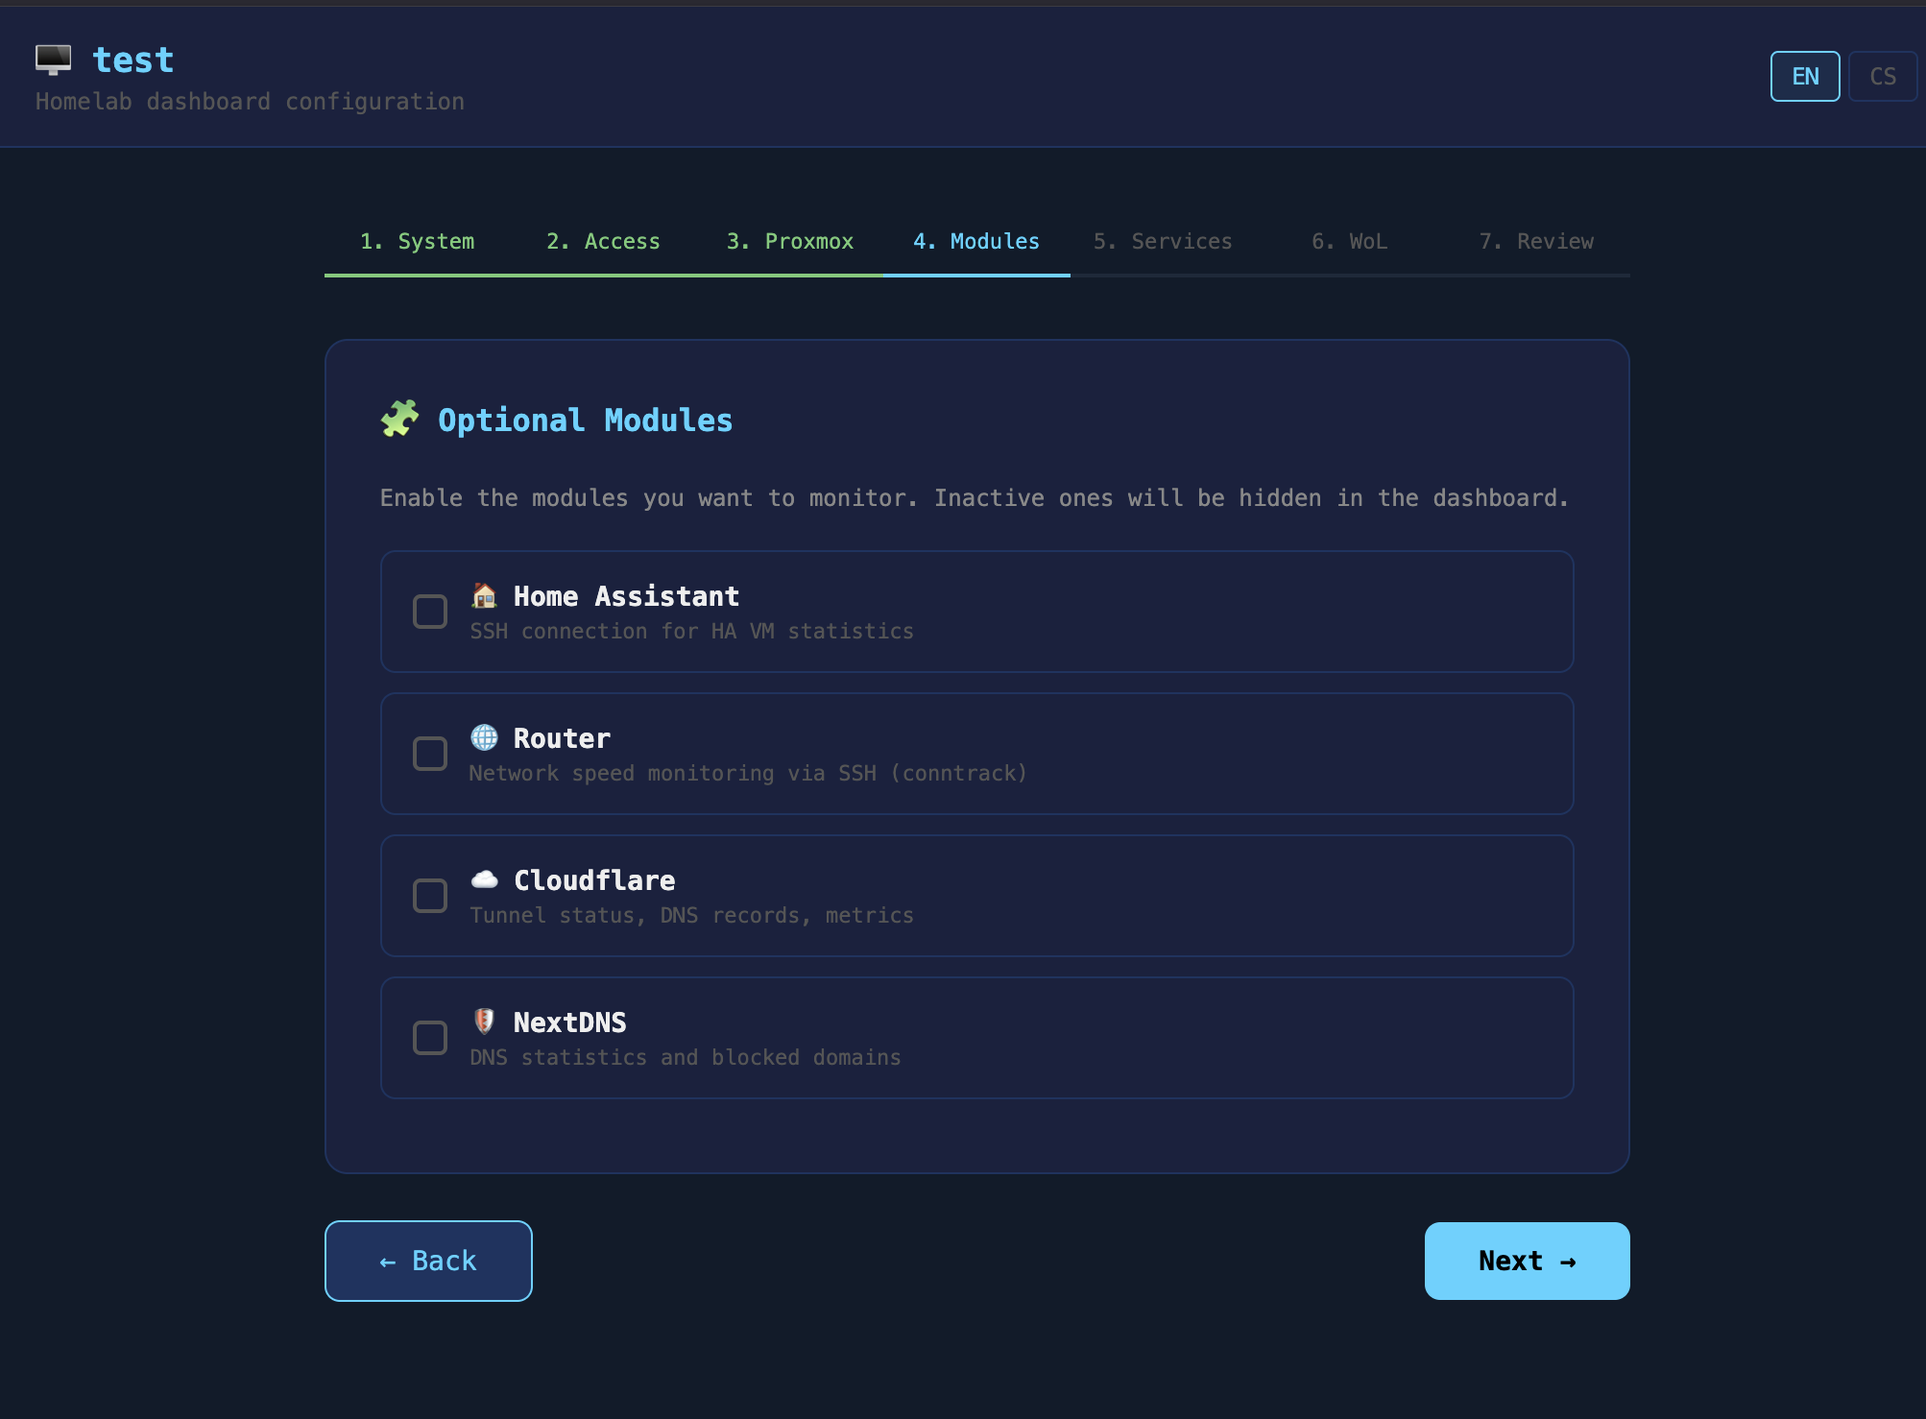
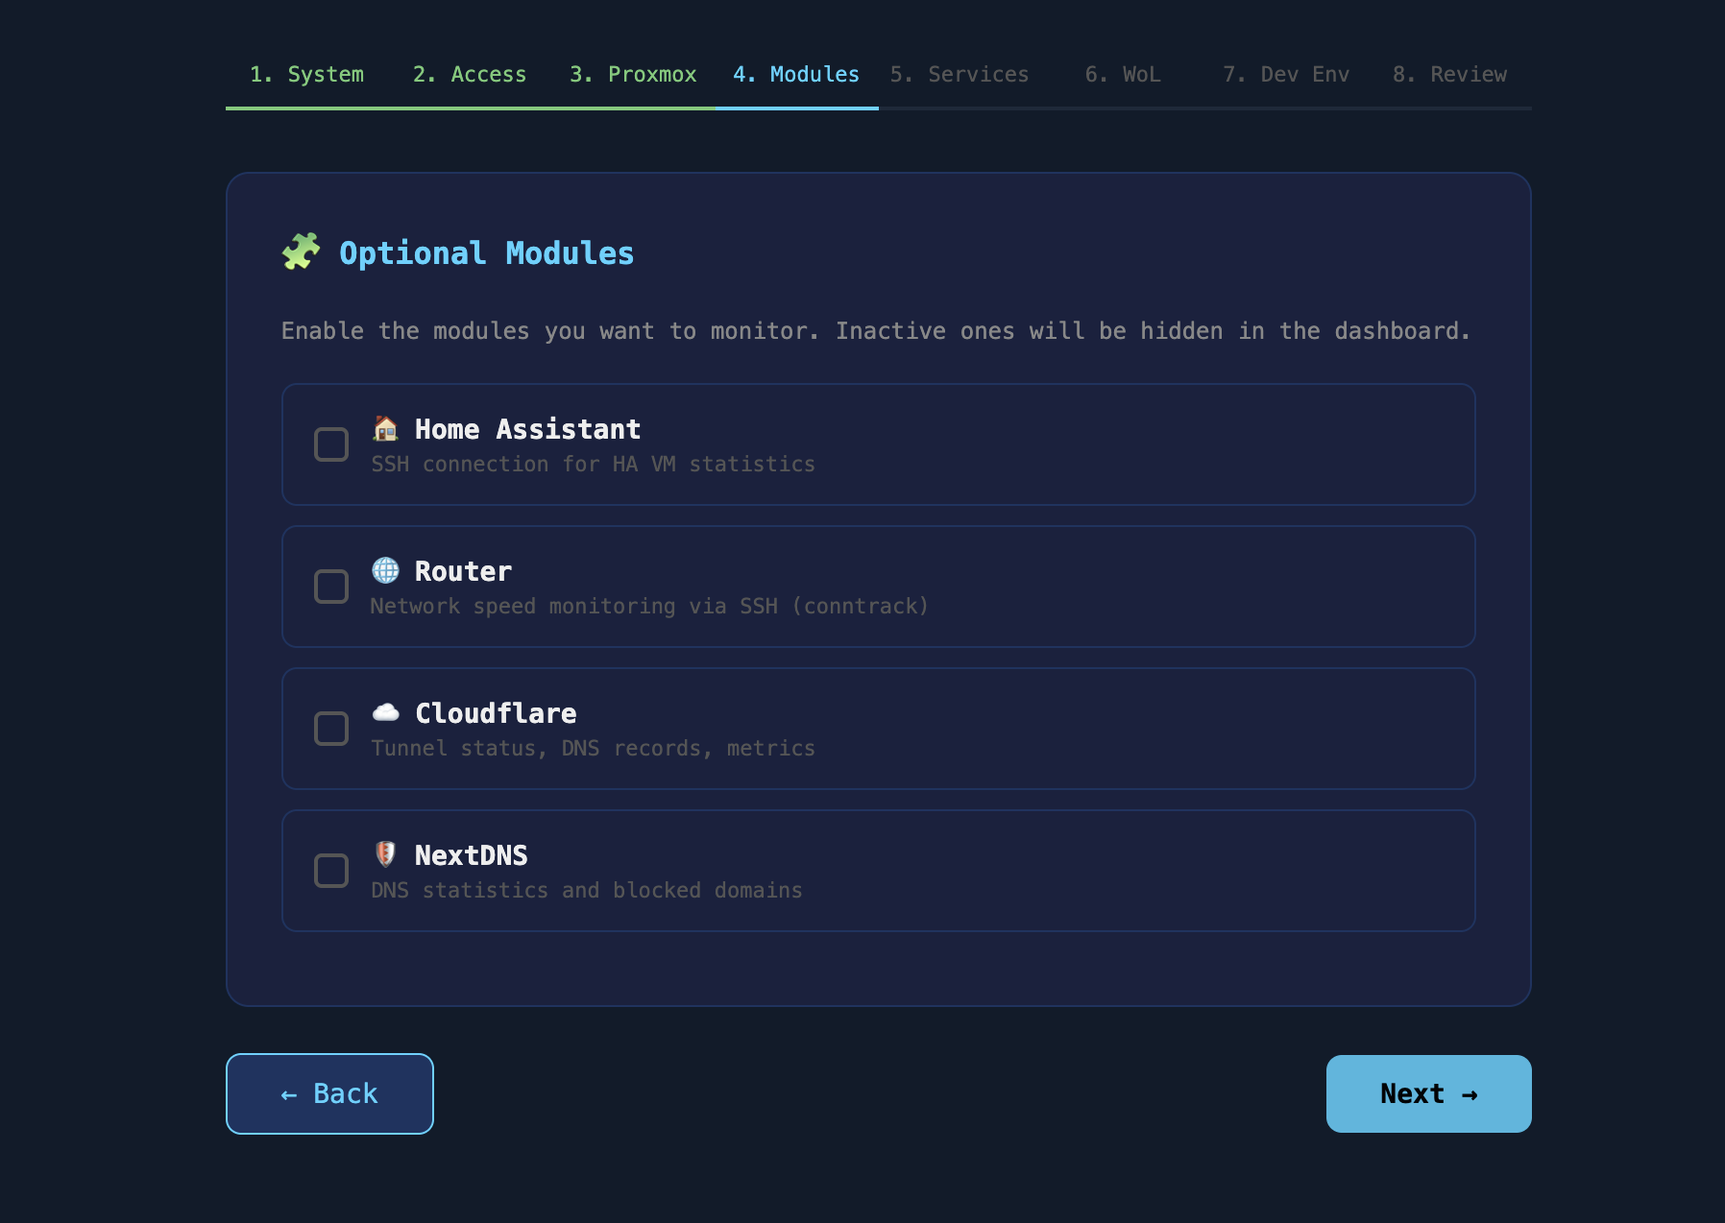
docs: update README with 9 screenshots, dashboard section, wizard step 8
- Replace all wizard screenshots with current versions (steps 1-6)
- Add step 7 Dev Environment screenshot (wizard-step7-devenv.png)
- Add two dashboard screenshots: Resources/Temperatures + Tools/LXC
- Split screenshots section into Wizard and Dashboard subsections
- Update wizard table: 7 steps → 8 steps (add Dev Environment)
- Add Dev Environment step description (Node.js ecosystem + independent tools)
- Update file structure: add dashboard-en.json and dashboard-cs.json
- Remove "Full EN translation" from planned features (now done)
- Add fourth iteration notes to development log
- Update both EN (README.md) and CS (README.cs.md)

diff --git a/README.md b/README.md
@@ -36,17 +36,18 @@ The app automatically detects whether `config.json` exists:
 
 ## Web Installer Wizard
 
-A 7-step setup wizard — no SSH or config file editing needed:
+An 8-step setup wizard — no SSH or config file editing needed:
 
 | Step | What you configure |
 |------|--------------------|
 | 1. System check | Python, sshpass, paramiko availability |
-| 2. Credentials | Dashboard name, username + password (SHA-256 hash, with generator) |
+| 2. Credentials | Dashboard name, port, username + password (SHA-256 hash, with generator) |
 | 3. Proxmox | IP, node name, SSH auth (password **or** generated keypair) |
 | 4. Modules | Home Assistant, Router, Cloudflare, NextDNS (each optional) |
 | 5. Services | URLs to monitor for availability |
 | 6. WoL devices | Name + MAC + IP for Wake-on-LAN |
-| 7. Review + Install | Shows full config (passwords hidden), saves `config.json` |
+| 7. Dev Environment | Optional developer tools to install on the server |
+| 8. Review + Install | Shows full config (passwords hidden), saves `config.json` |
 
 ### Wizard UX features
 
@@ -58,7 +59,7 @@ A 7-step setup wizard — no SSH or config file editing needed:
 - **Generic placeholders** — IP fields show `e.g. 192.168.1.x` instead of specific addresses
 - **Eye icon in review** — reveal password one last time before installing
 
-### SSH key generation (step 3 & 4)
+### SSH key generation (steps 3 & 4)
 
 For Proxmox and Router modules you can choose between password auth or SSH key. If you choose key, the wizard generates an ed25519 keypair, shows the public key with a **Copy** button, and tells you exactly where to paste it (`~/.ssh/authorized_keys`).
 
@@ -107,14 +108,14 @@ Fill in a form, click **"Create LXC and Install"** — the tool handles everythi
 ╚══════════════════════════════════════════╝
 ```
 
-**Selectable packages:** Docker, Node.js LTS, pnpm, Vercel CLI, Claude Code, micro editor, Git config
+**Selectable packages:** Docker, Node.js LTS, pnpm, Vercel CLI, Claude Code, Supabase CLI, micro editor, Git config
 
 ---
 
 ## Architecture
 
 ```
-Browser  ──→  Web UI (single-page HTML + JS)
+Browser  ──→  Web UI (single-page HTML + JS, EN/CS)
                 │
                 ▼
             FastAPI (Python)  ←── config.json
@@ -161,10 +162,13 @@ Browser  ──→  Web UI (single-page HTML + JS)
 ├── app.py               # dashboard backend (config-driven)
 ├── index.html           # dashboard frontend
 ├── locales/
-│   ├── en.json          # English translations
-│   └── cs.json          # Czech translations
+│   ├── en.json          # wizard EN translations
+│   ├── cs.json          # wizard CS translations
+│   ├── dashboard-en.json  # dashboard EN translations
+│   └── dashboard-cs.json  # dashboard CS translations
 ├── requirements.txt
 ├── monitor-public.service
+├── screenshots/         # README screenshots
 ├── keys/                # SSH keys generated by wizard (gitignored)
 └── config.json          # generated by wizard (gitignored)
 ```
@@ -173,46 +177,61 @@ Browser  ──→  Web UI (single-page HTML + JS)
 
 ## Screenshots
 
-### Step 1 — System Check
-Python, sshpass and paramiko verified, local IP detected.
+### Setup Wizard
+
+#### Step 1 — System Check
+Verifies Python 3, sshpass and paramiko are installed, and detects the local IP address of the server.
 
 ![Step 1 - System Check](screenshots/wizard-step1-system-check.png)
 
-### Step 2 — Dashboard Credentials
-Set dashboard name (updates browser title live), username, and password with built-in generator and strength bar.
+#### Step 2 — Dashboard Credentials
+Set the dashboard name (updates the browser title live), port, username, and password. Built-in generator produces 32/64/128-char passwords with a strength bar; live ✓/✗ indicator confirms the two fields match.
 
 ![Step 2 - Credentials](screenshots/wizard-step2-credentials.png)
 
-### Step 3 — Proxmox Connection
-Enter Proxmox IP, node name and SSH credentials. Choose between password or generated ed25519 keypair.
+#### Step 3 — Proxmox Connection
+Enter the Proxmox IP address, node name, and SSH credentials. Toggle between password auth and a wizard-generated ed25519 keypair (public key is displayed with a Copy button for pasting into `authorized_keys`). A **Test SSH connection** button validates the credentials before proceeding.
 
 ![Step 3 - Proxmox](screenshots/wizard-step3-proxmox.png)
 
-### Step 4 — Optional Modules
-Enable Home Assistant, Router, Cloudflare and/or NextDNS. Inactive modules are completely hidden in the dashboard.
+#### Step 4 — Optional Modules
+Enable Home Assistant, Router, Cloudflare and/or NextDNS monitoring. Each module expands its own credential form when checked. Inactive modules are completely hidden in the dashboard — no empty cards.
 
 ![Step 4 - Modules](screenshots/wizard-step4-modules.png)
 
-### Step 5 — Monitored Services
-Add URLs to check for HTTP availability. Each service gets a live status indicator on the dashboard.
+#### Step 5 — Monitored Services
+Add any number of URLs (name + URL) to track for HTTP availability. Each service gets a live status indicator on the dashboard.
 
 ![Step 5 - Services](screenshots/wizard-step5-services.png)
 
-### Step 6 — Wake-on-LAN Devices
-Register devices by name, MAC and IP. Dashboard shows ping status and lets you send a WoL packet in one click.
+#### Step 6 — Wake-on-LAN Devices
+Register devices by name, MAC address and IP. The dashboard shows live ping status and a one-click WoL button for each.
 
 ![Step 6 - WoL](screenshots/wizard-step6-wol.png)
 
-### Step 7 — Configuration Review & Install
-Full summary of all settings (passwords hidden, eye icon to reveal). Click Install & Start to write `config.json` and launch the dashboard.
+#### Step 7 — Dev Environment
+Optionally install developer tools on the server in the background after the dashboard starts. Tools are grouped into **Node.js ecosystem** (Node.js LTS + pnpm, Vercel CLI, Supabase CLI, Claude Code as dependents) and **Independent tools** (Bun, Docker, Redis, Python 3, micro editor). Progress is logged to `dev_install.log`.
 
-![Step 7 - Review](screenshots/wizard-step7-review.png)
+![Step 7 - Dev Environment](screenshots/wizard-step7-devenv.png)
+
+---
+
+### Dashboard
+
+#### Resources — Temperatures & CPU/RAM graphs
+The Resources tab shows live sensor readings (PCH, ACPITZ, per-core temperatures) alongside scrolling historical graphs for temperature and CPU/RAM usage (Proxmox host + active VMs). The status bar at the top shows uptime for each monitored system.
+
+![Dashboard - Resources](screenshots/dashboard-resources-temperatures.png)
+
+#### Tools — LXC Setup Generator
+The Tools tab contains the LXC provisioning wizard. Fill in container identity (CT ID, hostname, RAM, CPU, disk), network configuration (IP address with live availability check, gateway), optional Git config, and select which packages to install. Click **Create LXC and Install** to provision the container on Proxmox with a live log stream.
+
+![Dashboard - LXC Tools](screenshots/dashboard-tools-lxc.png)
 
 ---
 
 ## Planned Features
 
-- [ ] Full EN translation of the dashboard UI (flag switcher already in navbar)
 - [ ] LXC template selector (not just Ubuntu 22.04)
 - [ ] Container management: start/stop/restart from dashboard
 - [ ] Resource monitoring per-container (CPU, RAM, disk)
@@ -233,7 +252,7 @@ Full summary of all settings (passwords hidden, eye icon to reveal). Click Insta
 - IP availability check
 
 **Second iteration — extracted to standalone public repo:**
-- Web installer wizard (7 steps, `installer.py` + `installer.html`)
+- Web installer wizard (8 steps, `installer.py` + `installer.html`)
 - Config-driven `app.py` — all credentials/IPs from `config.json`
 - Conditional endpoint registration per active module
 - `install.sh` one-command installer
@@ -260,6 +279,16 @@ Full summary of all settings (passwords hidden, eye icon to reveal). Click Insta
 - Backup delete: `volid` validated against safe character regex
 - Backup schedule: `vmids`, `dow`, `hour`, `minute`, `maxfiles` all validated/whitelisted
 - LXC script generator: `git_name`, `git_email`, `ssh_key` wrapped with `shlex.quote()` + `printf '%s'` instead of `echo '...'` for SSH key injection prevention
+- `generate_key` name param validated with regex whitelist; `test_ssh` key_path validated against `KEYS_DIR`
+- LXC params: `ct_id`, `hostname`, `ip`, `gw` validated with strict regexes; `shlex.quote()` on password and template
+
+**Fourth iteration — dashboard i18n + Dev Env wizard step:**
+- Full English translation of the dashboard frontend (`locales/dashboard-en.json`, 114 keys)
+- Dashboard language defaults to EN; mirrors wizard language choice via `localStorage`
+- Flag switcher in navbar switches dashboard language live without reload
+- Dev Environment step added to wizard (step 7): Node.js ecosystem + independent tools in 2-col card grid
+- Background install via `subprocess.Popen` after wizard completes; progress in `dev_install.log`
+- LXC form: added CT ID field + "02 — Network Configuration" section (IP + gateway)
 
 ---
 

diff --git a/README.cs.md b/README.cs.md
@@ -36,17 +36,18 @@ App automaticky detekuje zda existuje `config.json`:
 
 ## Webový instalační wizard
 
-7-krokový wizard — žádné SSH ani ruční editování souborů:
+8-krokový wizard — žádné SSH ani ruční editování souborů:
 
 | Krok | Co nastavuješ |
 |------|---------------|
 | 1. Kontrola systému | Python, sshpass, paramiko |
-| 2. Přihlašovací údaje | Název dashboardu, uživatel + heslo (SHA-256 hash, s generátorem) |
+| 2. Přihlašovací údaje | Název dashboardu, port, uživatel + heslo (SHA-256 hash, s generátorem) |
 | 3. Proxmox | IP, node name, SSH auth (heslo **nebo** generovaný keypair) |
 | 4. Moduly | Home Assistant, Router, Cloudflare, NextDNS (každý volitelný) |
 | 5. Služby | URL adresy pro monitoring dostupnosti |
 | 6. WoL zařízení | Název + MAC + IP pro Wake-on-LAN |
-| 7. Review + Instalace | Zobrazí celý config (hesla skryta), uloží `config.json` |
+| 7. Vývojové prostředí | Volitelné vývojářské nástroje pro instalaci na server |
+| 8. Review + Instalace | Zobrazí celý config (hesla skryta), uloží `config.json` |
 
 ### UX funkce wizardu
 
@@ -107,14 +108,14 @@ Vyplň formulář, klikni **"Vytvořit LXC a nainstalovat"** — nástroj se pos
 ╚══════════════════════════════════════════╝
 ```
 
-**Volitelné balíčky:** Docker, Node.js LTS, pnpm, Vercel CLI, Claude Code, micro editor, Git konfigurace
+**Volitelné balíčky:** Docker, Node.js LTS, pnpm, Vercel CLI, Claude Code, Supabase CLI, micro editor, Git konfigurace
 
 ---
 
 ## Architektura
 
 ```
-Prohlížeč  ──→  Web UI (single-page HTML + JS)
+Prohlížeč  ──→  Web UI (single-page HTML + JS, EN/CS)
                   │
                   ▼
               FastAPI (Python)  ←── config.json
@@ -161,10 +162,13 @@ Prohlížeč  ──→  Web UI (single-page HTML + JS)
 ├── app.py               # backend dashboardu (config-driven)
 ├── index.html           # frontend dashboardu
 ├── locales/
-│   ├── en.json          # anglické překlady
-│   └── cs.json          # české překlady
+│   ├── en.json          # překlady wizardu (EN)
+│   ├── cs.json          # překlady wizardu (CS)
+│   ├── dashboard-en.json  # překlady dashboardu (EN)
+│   └── dashboard-cs.json  # překlady dashboardu (CS)
 ├── requirements.txt
 ├── monitor-public.service
+├── screenshots/         # screenshoty pro README
 ├── keys/                # SSH klíče generované wizardem (gitignored)
 └── config.json          # generovaný wizardem (gitignored)
 ```
@@ -173,46 +177,61 @@ Prohlížeč  ──→  Web UI (single-page HTML + JS)
 
 ## Screenshoty
 
-### Krok 1 — Kontrola systému
-Ověření Pythonu, sshpass a paramiko, detekce lokální IP.
+### Instalační wizard
+
+#### Krok 1 — Kontrola systému
+Ověření dostupnosti Pythonu 3, sshpass a paramiko; detekce lokální IP adresy serveru.
 
 ![Krok 1 - Kontrola systému](screenshots/wizard-step1-system-check.png)
 
-### Krok 2 — Přihlašovací údaje
-Nastavení názvu dashboardu (live aktualizace titulku), uživatelského jména a hesla s generátorem a strength barem.
+#### Krok 2 — Přihlašovací údaje
+Nastavení názvu dashboardu (live aktualizace titulku prohlížeče), portu, uživatelského jména a hesla. Zabudovaný generátor vytváří 32/64/128-znaková hesla se strength barem; živý indikátor ✓/✗ potvrzuje shodu obou polí.
 
 ![Krok 2 - Přihlašovací údaje](screenshots/wizard-step2-credentials.png)
 
-### Krok 3 — Připojení k Proxmoxu
-IP adresa, název nodu a SSH přihlášení — heslem nebo generovaným ed25519 klíčem.
+#### Krok 3 — Připojení k Proxmoxu
+IP adresa, název nodu a SSH přihlášení — heslem nebo wizardem generovaným ed25519 klíčem (veřejný klíč se zobrazí s tlačítkem Kopírovat pro vložení do `authorized_keys`). Tlačítko **Test SSH connection** ověří přihlašovací údaje před pokračováním.
 
 ![Krok 3 - Proxmox](screenshots/wizard-step3-proxmox.png)
 
-### Krok 4 — Volitelné moduly
-Aktivace Home Assistant, Router, Cloudflare a/nebo NextDNS. Neaktivní moduly se v dashboardu úplně skryjí.
+#### Krok 4 — Volitelné moduly
+Aktivace Home Assistant, Router, Cloudflare a/nebo NextDNS. Každý modul po zaškrtnutí rozbalí vlastní formulář s přihlašovacími údaji. Neaktivní moduly se v dashboardu úplně skryjí — žádné prázdné karty.
 
 ![Krok 4 - Moduly](screenshots/wizard-step4-modules.png)
 
-### Krok 5 — Monitorované služby
-Přidání URL adres pro HTTP kontrolu dostupnosti. Každá služba dostane live stavový indikátor.
+#### Krok 5 — Monitorované služby
+Přidání libovolného počtu URL (název + adresa) pro HTTP kontrolu dostupnosti. Každá služba dostane live stavový indikátor na dashboardu.
 
 ![Krok 5 - Služby](screenshots/wizard-step5-services.png)
 
-### Krok 6 — Wake-on-LAN zařízení
-Registrace zařízení podle názvu, MAC a IP. Dashboard zobrazuje ping stav a umožňuje odeslat WoL paket jedním kliknutím.
+#### Krok 6 — Wake-on-LAN zařízení
+Registrace zařízení podle názvu, MAC adresy a IP. Dashboard zobrazuje živý ping stav a tlačítko pro odeslání WoL paketu jedním kliknutím.
 
 ![Krok 6 - WoL](screenshots/wizard-step6-wol.png)
 
-### Krok 7 — Přehled konfigurace a instalace
-Souhrn všech nastavení (hesla skryta, ikonka oka pro zobrazení). Kliknutím na Install & Start se zapíše `config.json` a spustí dashboard.
+#### Krok 7 — Vývojové prostředí
+Volitelná instalace vývojářských nástrojů na server na pozadí po spuštění dashboardu. Nástroje jsou rozděleny do dvou skupin: **Node.js ekosystém** (Node.js LTS + jako závislé pnpm, Vercel CLI, Supabase CLI, Claude Code) a **Nezávislé nástroje** (Bun, Docker, Redis, Python 3, micro editor). Průběh se loguje do `dev_install.log`.
 
-![Krok 7 - Přehled](screenshots/wizard-step7-review.png)
+![Krok 7 - Vývojové prostředí](screenshots/wizard-step7-devenv.png)
+
+---
+
+### Dashboard
+
+#### Zdroje — Teploty a grafy CPU/RAM
+Záložka Resources zobrazuje živé hodnoty ze senzorů (PCH, ACPITZ, teploty per-core) a rolující historické grafy teplot a využití CPU/RAM (Proxmox host + aktivní VM). Stavový řádek nahoře zobrazuje uptime každého monitorovaného systému.
+
+![Dashboard - Zdroje](screenshots/dashboard-resources-temperatures.png)
+
+#### Nástroje — LXC Setup Generator
+Záložka Tools obsahuje wizard pro provisioning LXC kontejnerů. Vyplň identitu kontejneru (CT ID, hostname, RAM, CPU, disk), síťovou konfiguraci (IP adresa s živou kontrolou dostupnosti, brána), volitelnou Git konfiguraci a vyber balíčky k instalaci. Kliknutím na **Vytvořit LXC a nainstalovat** se kontejner provisionuje na Proxmoxu s live logem.
+
+![Dashboard - Nástroje LXC](screenshots/dashboard-tools-lxc.png)
 
 ---
 
 ## Plánované funkce
 
-- [ ] Plný anglický překlad UI dashboardu (přepínač vlajek v navbaru už je připravený)
 - [ ] Výběr LXC šablony (nejen Ubuntu 22.04)
 - [ ] Správa kontejnerů: start/stop/restart z dashboardu
 - [ ] Monitoring zdrojů per-kontejner (CPU, RAM, disk)
@@ -233,7 +252,7 @@ Souhrn všech nastavení (hesla skryta, ikonka oka pro zobrazení). Kliknutím n
 - Kontrola dostupnosti IP
 
 **Druhá iterace — extrakce do samostatného veřejného repo:**
-- Webový instalační wizard (7 kroků, `installer.py` + `installer.html`)
+- Webový instalační wizard (8 kroků, `installer.py` + `installer.html`)
 - Config-driven `app.py` — všechny credentials/IP adresy z `config.json`
 - Podmínečná registrace endpointů dle aktivních modulů
 - `install.sh` one-command instalátor
@@ -260,6 +279,16 @@ Souhrn všech nastavení (hesla skryta, ikonka oka pro zobrazení). Kliknutím n
 - Zálohy — smazání: `volid` validován regexem bezpečných znaků
 - Zálohy — plánování: `vmids`, `dow`, `hour`, `minute`, `maxfiles` validovány/whitelistovány
 - LXC generátor skriptů: `git_name`, `git_email`, `ssh_key` obaleny `shlex.quote()` + SSH klíč zapisován přes `printf '%s'` místo `echo '...'`
+- `generate_key` — name validován regexem; `test_ssh` — key_path ověřen vůči `KEYS_DIR`
+- LXC parametry: `ct_id`, `hostname`, `ip`, `gw` validovány přísnými regexy; `shlex.quote()` na heslo a šablonu
+
+**Čtvrtá iterace — i18n dashboardu + krok Vývojové prostředí:**
+- Plný anglický překlad frontendu dashboardu (`locales/dashboard-en.json`, 114 klíčů)
+- Dashboard výchozí jazyk EN; kopíruje volbu jazyka z wizardu přes `localStorage`
+- Přepínač vlajek v navbaru přepíná jazyk dashboardu živě bez načtení stránky
+- Přidán krok 7 Vývojové prostředí do wizardu: Node.js ekosystém + nezávislé nástroje v 2-sloupcovém gridu karet
+- Instalace na pozadí přes `subprocess.Popen` po dokončení wizardu; průběh v `dev_install.log`
+- LXC formulář: přidáno pole CT ID + sekce "02 — Síťová konfigurace" (IP + brána)
 
 ---
 
